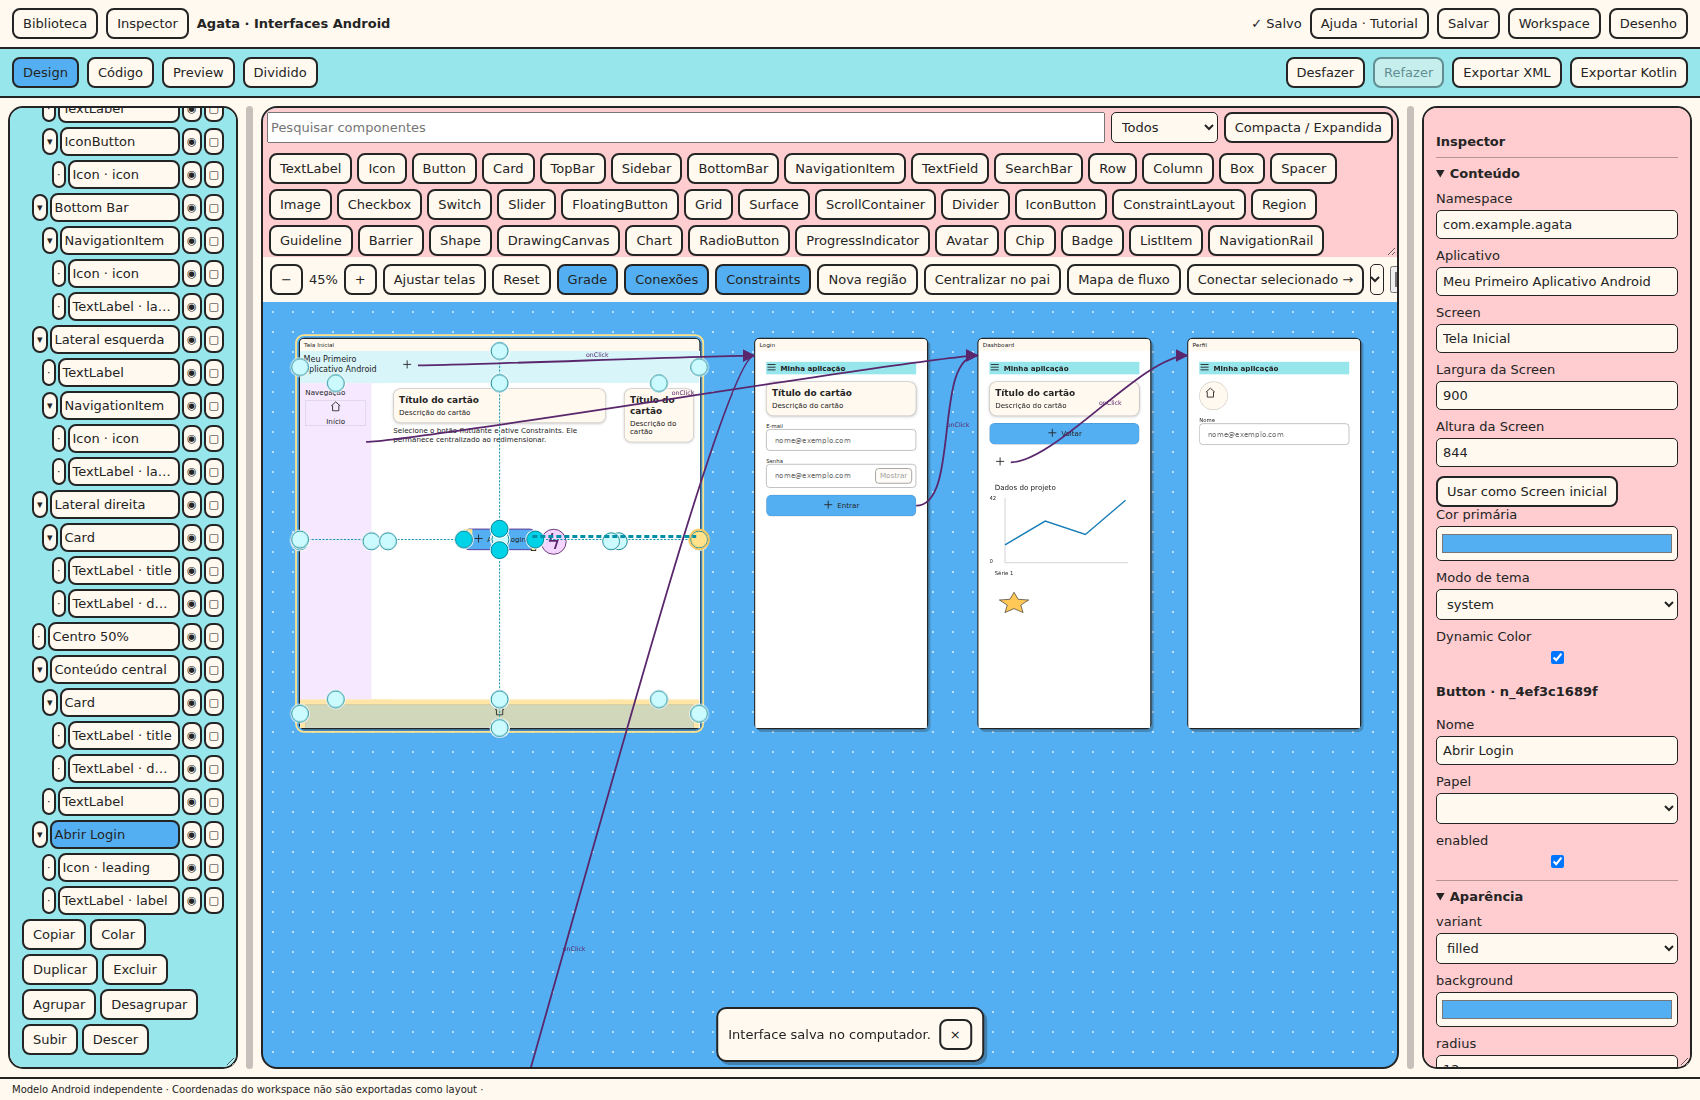
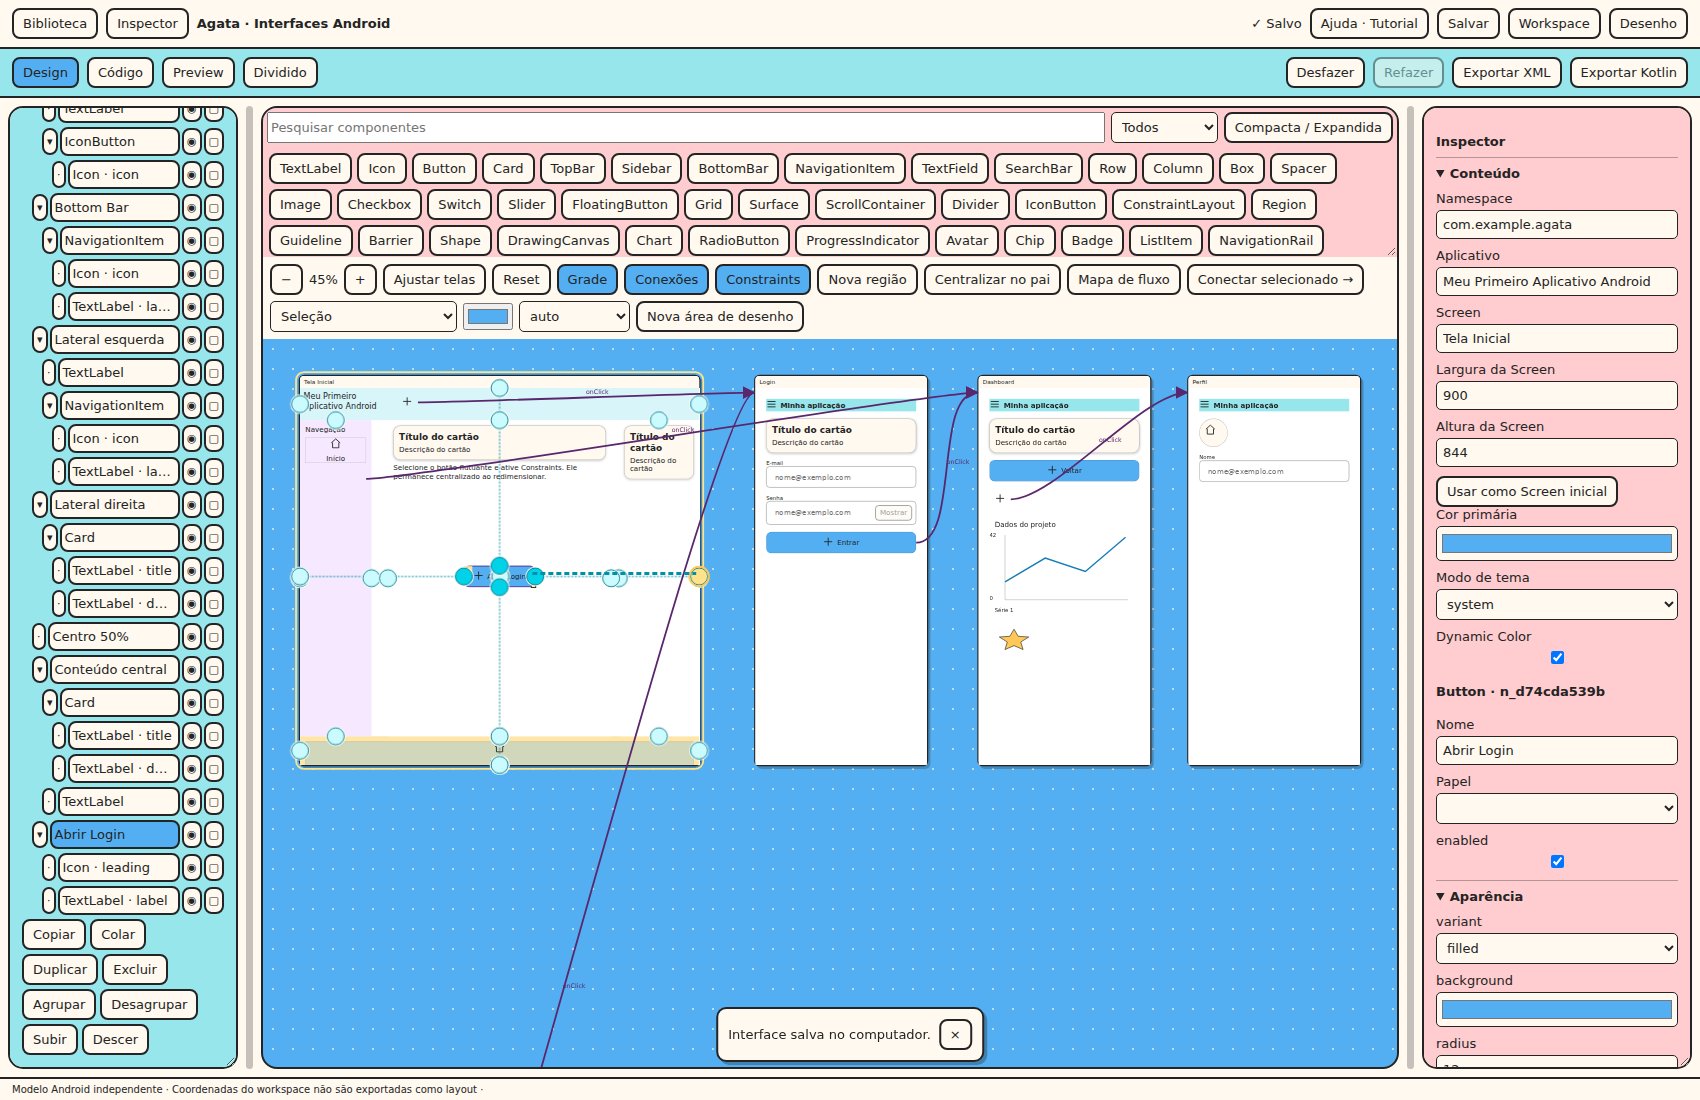
fix(editor): keep tools visible and separate navigation from constraint handles

diff --git a/apps/android_designer/static/js/designer.js b/apps/android_designer/static/js/designer.js
@@ -304,7 +304,7 @@ window.AgataAndroidDesigner={async mount(root){
  desktop=window.AgataDesktop.mount(root,{registry,redraw:()=>{constraintEditor?.redraw();navigationEditor?.redraw();}});codeWorkflow=window.AgataCodeWorkflow.mount(root,{model,generate,refresh:()=>{generate();dirty();},getFile:()=>({backend:$('ad-backend').value,path:filePath})});
  navigationEditor=window.AgataNavigationEditor.mount(root,{model,selection:()=>selected,select:selectNode,render,notify:message,preview:async id=>{const c=model.find(id);await setMode('preview');previewStack=[c.screen.id];runPreviewAction(c.node.events.onClick||{});}});on($('ad-flow'),'click',()=>navigationEditor.flow());
  constraintEditor=window.AgataConstraintEditor.mount(root,{model,selection:()=>selected,commit:()=>{document.dispatchEvent(new CustomEvent('agata:action',{detail:'constraint'}));render();},notify:message,enabled:()=>constraintMode&&['design','split'].includes(mode)});
- on($('ad-constraint-mode'),'click',()=>{constraintMode=!constraintMode;if(constraintMode){const c=chosen()[0];if(c?.parent?.type!=='ConstraintLayout')message('Selecione um filho de ConstraintLayout, ou use Converter em Constraints no Inspector.');}$('ad-constraint-mode').setAttribute('aria-pressed',String(constraintMode));constraintEditor.redraw();});
+ on($('ad-constraint-mode'),'click',()=>{constraintMode=!constraintMode;root.dataset.constraintMode=String(constraintMode);navigationEditor?.redraw();if(constraintMode){const c=chosen()[0];if(c?.parent?.type!=='ConstraintLayout')message('Selecione um filho de ConstraintLayout, ou use Converter em Constraints no Inspector.');}$('ad-constraint-mode').setAttribute('aria-pressed',String(constraintMode));constraintEditor.redraw();});
  on($('ad-center-node'),'click',()=>{try{model.centerNode([...selected][0]);document.dispatchEvent(new CustomEvent('agata:action',{detail:'center'}));render();}catch(e){message(e.message,true);}});
  on($('ad-new-layer'),'click',()=>{try{model.addLayer(screen(),[...selected]);render();}catch(e){message(e.message,true);}});
  on($('ad-add-region'),'click',()=>{try{const current=chosen()[0],parent=current&&registry[current.node.type]?.container?current.node:current?.parent||screen().root;const region=M.node(registry,'Region');region.name='Região';region.layout.width=160;region.layout.height=200;model.insertNode(parent.id,region);selected=new Set([region.id]);render();}catch(e){message(e.message,true);}});

diff --git a/apps/android_designer/static/js/navigation_editor.js b/apps/android_designer/static/js/navigation_editor.js
@@ -17,7 +17,7 @@ window.AgataNavigationEditor={mount(root,{model,selection,select,render,preview,
   }else if(['url','custom'].includes(old.action)){const input=el('input');input.value=old.target;input.setAttribute('aria-label','Valor da ação');input.onchange=()=>{if(old.action==='url'&&!/^https?:\/\//.test(input.value)){notify('Use HTTP/HTTPS.',true);return;}set(n.id,{...old,target:input.value});};section.append(input);}
   const test=el('button','Testar no Preview');test.id='ad-test-event';test.onclick=()=>preview(n.id);section.append(test);
  }
- function redraw(){root.querySelectorAll('.ad-event-handle').forEach(e=>e.remove());if(root.dataset.mode==='preview'||root.dataset.mode==='code')return;const host=root.querySelector('#ad-frames'),hr=host.getBoundingClientRect(),scale=hr.width/host.offsetWidth;
+ function redraw(){root.querySelectorAll('.ad-event-handle').forEach(e=>e.remove());if(root.dataset.constraintMode==='true'||root.dataset.mode==='preview'||root.dataset.mode==='code')return;const host=root.querySelector('#ad-frames'),hr=host.getBoundingClientRect(),scale=hr.width/host.offsetWidth;
   for(const id of selection()){const node=model.find(id)?.node,view=host.querySelector(`[data-node-id="${id}"]`);if(!view||!node||['Guideline','Barrier','Spacer'].includes(node.type))continue;const r=view.getBoundingClientRect(),h=el('button','ϟ');h.className='ad-event-handle';h.dataset.eventNode=id;h.title='Arraste onClick até uma Screen';h.setAttribute('aria-label','Conectar onClick de '+node.name);Object.assign(h.style,{width:26/scale+'px',height:26/scale+'px',fontSize:21/scale+'px',left:(r.right-hr.left)/scale+12+'px',top:(r.top-hr.top)/scale+'px'});host.append(h);}
  }
  const clear=()=>{wire?.remove();wire=null;root.querySelectorAll('.ad-navigation-target').forEach(e=>e.classList.remove('ad-navigation-target'));};

diff --git a/apps/android_designer/static/designer.css b/apps/android_designer/static/designer.css
@@ -104,3 +104,4 @@
 #ad-code-tabs{display:flex;gap:3px;overflow:auto;flex:none}.ad-code-compare{width:min(1100px,95vw);background:#fff9ef;border:3px solid #242424;border-radius:12px}.ad-code-compare>div{display:flex;gap:12px}.ad-code-compare label{flex:1}.ad-code-compare textarea{width:100%;height:60vh;font:12px monospace}.ad-code-compare button{margin:8px}
 #android-designer .ad-paint-hover{outline:4px solid #f6b200!important;cursor:crosshair}#android-designer #ad-chart-data input{width:90px}#android-designer .ui-Shape>svg,#android-designer .ui-Chart>svg,#android-designer .ui-DrawingCanvas>svg{display:block;overflow:hidden;flex:none}
 .ad-destination-miniature{height:130px;overflow:hidden}.ad-destination-miniature>div{pointer-events:none}
+#android-designer .ad-workspace-tools,#android-designer .ad-code-tools{flex-wrap:wrap;white-space:normal;max-height:150px;overflow:auto;align-content:flex-start}
